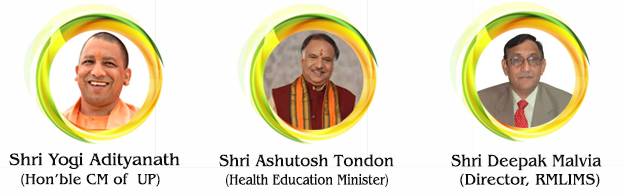
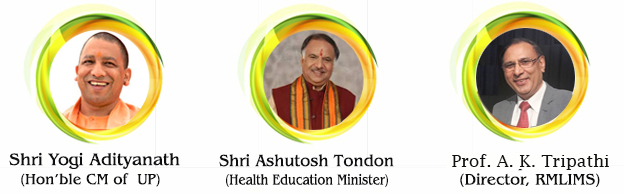
Director image updated and Book appointment start

Changed region(s): [[0.7612, 0.1231, 0.9439, 0.6462], [0.7003, 0.7692, 0.9744, 0.8615]]

diff --git a/PatientPortal/Scripts/App/Appointment/Appoint.js b/PatientPortal/Scripts/App/Appointment/Appoint.js
@@ -201,8 +201,8 @@ $(document).on('click', '.timelabel', function () {
 });
 
 $(document).on('click', '#btnGetAppointment', function () {
-    utility.alert.setAlert("Book Appointment", "Book Appointment is in testing mode, it will be available shortly.");
-    return false;
+    //utility.alert.setAlert("Book Appointment", "Book Appointment is in testing mode, it will be available shortly.");
+    //return false;
     if (typeof $(this).data('data') === 'object') {
         utility.ajax.helperWithData(app.urls.appointmentSaveAppointment, $(this).data('data'), function (data) {
             if (data == 'Data has been saved') {

diff --git a/PatientPortal/Controllers/AppointmentController.cs b/PatientPortal/Controllers/AppointmentController.cs
@@ -102,7 +102,7 @@ namespace PatientPortal.Controllers
             Dictionary<int, string> result = new Dictionary<int, string>();
             if (int.TryParse(_sessionPatienId, out _patientId))
             {
-                return Json(_details.PatientAppointmentListBookAppointment(_patientId, year, month), JsonRequestBehavior.AllowGet);
+                return Json(_details.PatientAppointmentList(_patientId, year, month), JsonRequestBehavior.AllowGet);
             }
             else
             {
